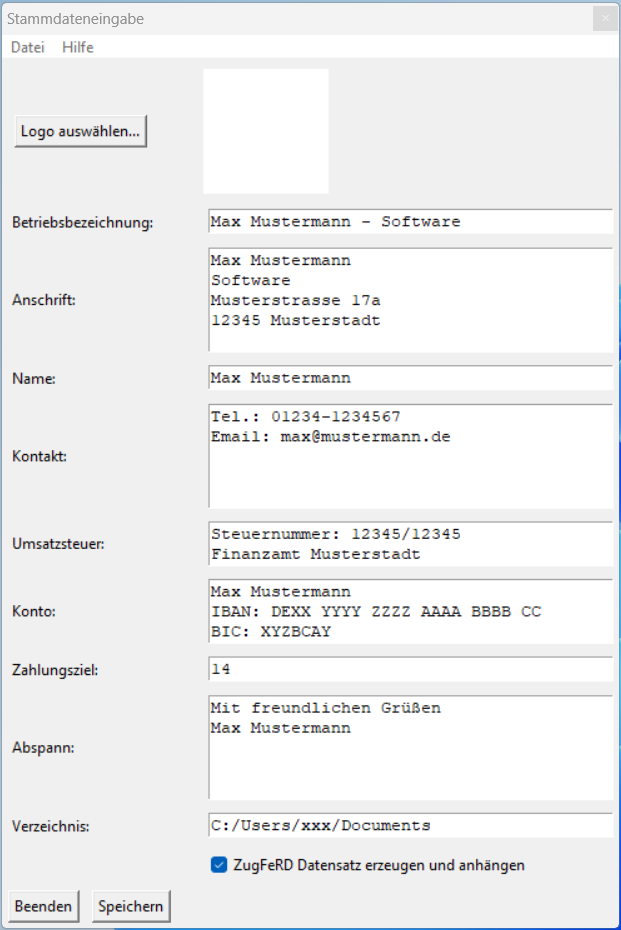
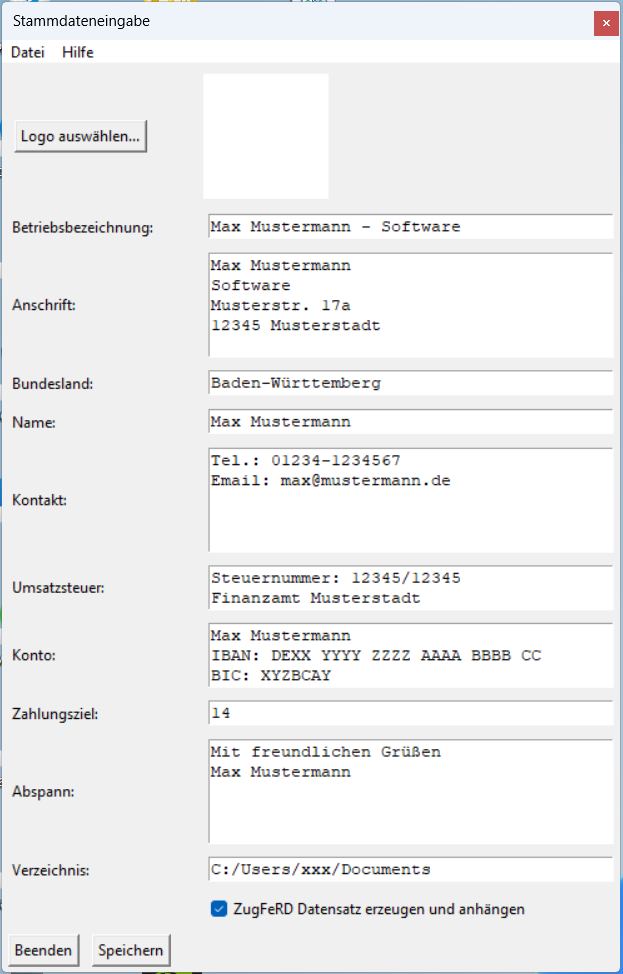
feat: Eingabe vom Bundesland des Rechnungserstellers ermöglicht

diff --git a/handle_pdf.py b/handle_pdf.py
@@ -88,13 +88,22 @@ class PDF(FPDF):
         prints Absenderdaten
         """
         self.start_section("Absender", 0)
-        self.set_xy(140, 32.5)
+        self.set_xy(140, 25.5)
         self.set_font_size(12)
         self.multi_cell(105, 5, adress)
         self.set_xy(25, 60.5)
         self.set_font(None, "U", size=6)
         self.cell(105, 1, adress.replace("\n", ", "))
         self.ln()
+
+    def print_bundesland(self, bundesland: str) -> None:
+        """
+        prints Bundesland
+        """
+        self.start_section("Bundesland", 0)
+        self.set_xy(140, 54.5)
+        self.set_font(None, "", 10)
+        self.cell(105, 1, bundesland)
 
     def print_kontakt(self, daten: str) -> None:
         """
@@ -540,6 +549,11 @@ class Pdf(PDF):
         self.print_faltmarken()
         self.print_logo()
         self.print_absender(self.stammdaten["Anschrift"])
+        bundesland = self.stammdaten["Bundesland"]
+        if len(bundesland) > 0:
+            self.print_bundesland(bundesland)
+            if self.create_xml:
+                self.zugferd.add_bundesland(bundesland)
         self.print_kontakt(
             self.stammdaten["Kontakt"] + "\n\n" + self.stammdaten["Umsatzsteuer"]
         )

diff --git a/excel2zugferd.py b/excel2zugferd.py
@@ -31,6 +31,7 @@ fields = [
         "Type": "String",
     },
     {"Text": "Anschrift", "Label": "Anschrift", "Lines": 5, "Type": "String"},
+    {"Text": "Bundesland", "Label": "Bundesland", "Lines": 1, "Type": "String"},
     {"Text": "Name", "Label": "Name", "Lines": 1, "Type": "String"},
     {"Text": "Kontakt", "Label": "Kontakt", "Lines": 5, "Type": "String"},
     {"Text": "Umsatzsteuer", "Label": "Umsatzsteuer", "Lines": 2, "Type": "String"},

diff --git a/handle_zugferd.py b/handle_zugferd.py
@@ -44,6 +44,10 @@ class ZugFeRD:
         note.subject_code = "REG"
         self.doc.header.notes.add(note)
 
+    def add_bundesland(self, bundesland):
+        """Add Bundesland"""
+        self.doc.trade.agreement.seller.address.country_subdivision = bundesland
+
     def add_zahlungsempfaenger(self, text):
         """set Zahlungsempfaenger to correct value"""
         self.doc.trade.settlement.payment_means.type_code = (
